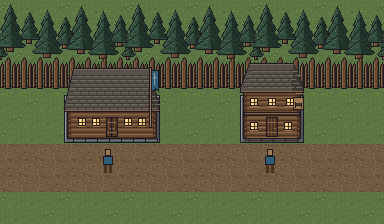
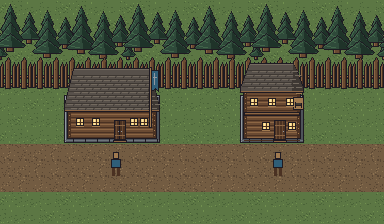
Starfall: hall and inn doors centred on their map tile and stepped down to the ground
Evan saw the inn's path miss its door and the door float above the ground. Both
doors were drawn across two tiles (the path and the door tile sat 8 px to one side)
and ended on the stone footing. starfall_hall_inn.py now centres each door on the
door tile, gives it a plank step to the ground (door() takes step=True; the other
buildings are unchanged) and checks both. Windows shift to make room; the glow
positions in main.gd follow. A path now joins up to a door tile.

Claude-Session: https://claude.ai/code/session_01Dc9xDMsvEbTojtztFBwVHK

Changed region(s): [[0.1875, 0.5, 0.4062, 0.7812], [0.625, 0.5, 0.7812, 0.7812]]

diff --git a/tools/art/starfall_hall_inn.py b/tools/art/starfall_hall_inn.py
@@ -60,8 +60,13 @@ def window(d,x,y,lit):
     d.line((x,y+8,x+7,y+8),fill=C['plank'])
 
 
-def door(d,x,y,double=False):
-    # Exactly 12x20, including outline; fits a normal 16x24 person.
+def door(d,x,y,double=False,step=False):
+    # Exactly 12x20, including outline; fits a normal 16x24 person. With step, (x, y) is where the step's top sits:
+    # a plank step laid across the stone footing to the ground, and the door stands on it instead of floating.
+    if step:
+        d.rectangle((x-1,y+17,x+12,y+19),fill=C['plank'],outline=C['ink'])
+        d.line((x,y+18,x+11,y+18),fill=C['log_l'])
+        y-=3
     d.rectangle((x,y,x+11,y+19),fill=C['log_d'],outline=C['ink'])
     for dx in (2,5,8):d.line((x+dx,y+1,x+dx,y+18),fill=C['log'])
     if double:
@@ -76,8 +81,9 @@ def building(kind,lit):
     im=ground.image((width,80));d=ImageDraw.Draw(im);foundation(d,width)
     if kind=='guild_hall':
         logs(d,(3,40,92,75));roof(d,width,5,48)
-        windows=[(14,55),(28,55),(60,55),(74,55)]
-        door_rect=[42,54,12,20];door(d,*door_rect[:2],double=True)
+        # The door is centred on the footprint's fourth tile (x 48-63), the door tile in the game's map.
+        windows=[(12,55),(28,55),(66,55),(76,55)]
+        door_rect=[50,57,12,20];door(d,door_rect[0],60,double=True,step=True)
         # Banner and pole distinct from roof colour; guild blue only on cloth.
         d.rectangle((85,4,87,64),fill=C['ink']);d.line((86,5,86,63),fill=C['plank'])
         d.polygon([(87,7),(94,7),(94,28),(91,25),(87,28)],fill=C['guild'],outline=C['ink'])
@@ -87,8 +93,9 @@ def building(kind,lit):
         logs(d,(3,23,60,75));roof(d,width,0,29)
         d.rectangle((4,49,59,52),fill=C['log_d'],outline=C['ink'])
         d.line((5,50,58,50),fill=C['log_l'])
-        windows=[(10,35),(28,35),(46,35),(10,59),(44,59)]
-        door_rect=[26,54,12,20];door(d,*door_rect[:2])
+        # The door is centred on the footprint's third tile (x 32-47), the door tile in the game's map.
+        windows=[(10,35),(28,35),(46,35),(22,59),(48,59)]
+        door_rect=[34,57,12,20];door(d,door_rect[0],60,step=True)
         # Hanging bed sign on a timber bracket; no player-facing tiny text.
         d.line((55,29,63,29),fill=C['ink']);d.line((56,30,62,30),fill=C['plank'])
         d.line((62,30,62,34),fill=C['ink'])
@@ -122,7 +129,7 @@ def scene(assets,lit):
     stockade.paste(im,assets['guild_hall'+suffix],(64,63))
     stockade.paste(im,assets['inn'+suffix],(240,63))
     # Each person stands just outside the threshold, leaving the door visible.
-    for x in (100,262):stockade.paste(im,person(),(x,149))
+    for x in (108,270):stockade.paste(im,person(),(x,152))
     return im
 
 
@@ -156,6 +163,7 @@ def validate(assets,meta):
         a=assets[kind+'.png'];b=assets[kind+'-lit.png']
         assert list(a.size)==e['size'] and b.size==a.size
         assert e['door_rect'][2:]==[12,20]
+        dx=e['door_rect'][0];assert (dx+6)%16 in (7,8) and e['door_rect'][1]+e['door_rect'][3]==77, 'Door centred on a tile, standing on its step'
         fx,fy,fw,fh=e['footprint_rect'];assert [fw//16,fh//16]==e['footprint_tiles']
         assert 0<=fx and 0<=fy and fx+fw<=a.width and fy+fh<=a.height
         assert all(a.getpixel((x,79))!=0 for x in range(a.width)), 'Base must span footprint'

diff --git a/docs/DEVELOPMENT-PATH.md b/docs/DEVELOPMENT-PATH.md
@@ -174,11 +174,15 @@ yard, smithy and Garrick, apothecary and prices, ranks and newcomers, music, det
 - [x] Art review of ART-SF-1 to 7 and SF2.6 (Art direction thread, 2026-10-11): passed. In the game Starfall now reads as a
   log-walled frontier town and can't be mistaken for Larkhaven (the GR-5 check); the pieces keep the palette, the shake
   roofs, the sizes and distinct silhouettes. Fixed in review: the food counter's awning and wood moved onto Starfall's
-  palette. Follow-ups: ART-SF-8 and SF2.6c below.
+  palette; and, after Evan spotted it, the hall's and inn's doors now sit centred on their map tile (so the inn's path
+  meets the door) and stand on a plank step to the ground instead of floating on the stone base. Follow-ups: ART-SF-8 and
+  SF2.6c below.
 - [ ] ART-SF-8 [any] Dress the square and roads: the square is one plain packed-earth rectangle. Add worn ruts and
   puddles, grass tufts along the edges, a bench and a hitching post, and place ART-SF-6's barrels, crates and firewood
   by the buildings that would use them (inn, tavern, smithy). Pictures in `starfall-godot/assets/env/frontier/`,
-  placement in main.gd. Done when the opening screenshot reads lived-in, every building is still reachable, and the
+  placement in main.gd. Also give the apothecary, healer and tavern doors a step down to the ground, as the
+  hall and inn now have (Evan saw the inn's door floating above its stone base on 2026-10-11; fixed for those two in
+  tools/art/starfall_hall_inn.py). Done when the opening screenshot reads lived-in, every building is still reachable, and the
   Starfall checks pass.
 - [ ] SF2.6c [any] Open on the town's best side: on day one the camera cuts off the Guild Hall's and the inn's roofs
   and banner, the most recognisable parts. Start the player (or the camera) so both buildings show whole. Also delete
@@ -367,7 +371,8 @@ line or two, with the page that holds the detail.
 - **2026-10-11, Starfall art review (Claude, Art direction thread):** seven drawing tasks written as specs (size, footprint,
   palette, contact sheet) were all built by Evan's dad's AIs within a day and fit together without redrawing: a tight
   spec is what lets other assistants make art that matches. What slipped was the space between the pieces (a bare
-  square, the opening view) and one older code-drawn piece off the palette; next time a set of tasks includes one for
+  square, the opening view) and one older code-drawn piece off the palette, and doors drawn between two tiles
+  (a door must be centred on the map tile you walk through, and touch the ground); next time a set of tasks includes one for
   dressing the scene and one for the first screen. Tasks ART-SF-8, SF2.6c.
 - **2026-10-09, Art direction (Claude, Art direction thread, formerly Game assets):** borrowed art made Starfall and
   Wildbond look like one game, and free packs can't carry a future 3D or first-person game. Actioned: one arcade-wide
